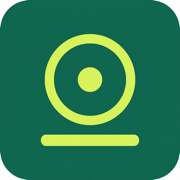
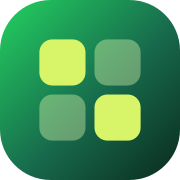
style: 导航图标改为纯文字+柔和选中态，替换logo为工作台风格图标

diff --git a/index.html b/index.html
@@ -6,10 +6,10 @@
 <link rel="apple-touch-icon" href="/static/apple-touch-icon.png" sizes="180x180">
 <meta name="theme-color" content="#176b4d">
 <style>
-:root{--bg:#f5f7f5;--paper:#fff;--soft:#edf1ed;--line:#dfe5df;--text:#17221c;--muted:#78827c;--green:#176b4d;--lime:#d8f56a;--orange:#ef8b52;--blue:#4978ca;--red:#d5574a;--shadow:0 8px 30px rgba(25,40,31,.06)}*{box-sizing:border-box}body{margin:0;background:var(--bg);color:var(--text);font:14px/1.55 -apple-system,BlinkMacSystemFont,"PingFang SC","Microsoft Yahei",sans-serif}.app{min-height:100vh}main{min-width:0}.top{padding:12px 34px;border-bottom:1px solid var(--line);background:rgba(245,247,245,.88);backdrop-filter:blur(10px);position:sticky;top:0;z-index:4;display:grid;grid-template-columns:1fr auto 1fr;align-items:center;gap:14px}.brand-mini{display:flex;gap:9px;align-items:center;cursor:pointer;padding:6px 16px 6px 8px;margin:-6px 2px -6px -8px;border-right:1px solid var(--line);border-radius:10px;flex:0 0 auto;justify-self:start}.brand-mini:hover{background:var(--soft)}.brand-mini.active{background:var(--text)}.brand-mini.active b,.brand-mini.active .mark{color:var(--lime)}.brand-mini b{font-size:15px}.mark{width:29px;height:29px;border-radius:9px;background:var(--green);color:var(--lime);display:grid;place-items:center;font-weight:800;font-size:15px;flex:0 0 auto;overflow:hidden}.mark img{width:100%;height:100%;display:block;object-fit:cover}.pillnav{display:flex;gap:3px;overflow-x:auto;justify-self:center;max-width:100%;scrollbar-width:none}.pillnav::-webkit-scrollbar{display:none}.pill{padding:8px 13px;border-radius:20px;color:#566159;cursor:pointer;display:flex;gap:7px;align-items:center;white-space:nowrap;font-weight:600;flex:0 0 auto}.pill:hover{background:var(--soft)}.pill.active{background:var(--text);color:#fff}.badge{background:#e2e8e2;border-radius:12px;padding:1px 7px;font-size:11px;color:#526056}.pill.active .badge{background:rgba(255,255,255,.22);color:#fff}.top-right{justify-self:end;color:var(--muted);font-size:12px;flex:0 0 auto}.avatar{display:inline-grid;place-items:center;width:30px;height:30px;margin-left:8px;border-radius:50%;background:#d8ead9;color:var(--green);font-weight:700}.page{max-width:1680px;margin:auto;padding:32px 34px 60px}.view{display:none}.view.active{display:block}.hero{display:flex;justify-content:space-between;align-items:end;margin-bottom:25px}.eyebrow{color:var(--green);font-size:12px;font-weight:700;letter-spacing:.05em}.hero h1{font-size:28px;margin:4px 0 4px;letter-spacing:-.04em}.hero p{color:var(--muted);margin:0}.date{color:var(--muted);font-size:13px}.grid{display:grid;grid-template-columns:minmax(430px,1.45fr) minmax(280px,.85fr);gap:18px}.home-layout{display:grid;grid-template-columns:minmax(0,1fr) 340px;gap:20px;align-items:start}.home-grid{display:grid;grid-template-columns:repeat(2,minmax(0,1fr));gap:16px}.todo-panel{background:var(--paper);border:1px solid var(--line);box-shadow:var(--shadow);border-radius:14px;padding:18px;position:sticky;top:88px}.todo-head{display:flex;align-items:center;justify-content:space-between;margin-bottom:12px}.todo-head h2{margin:0;font-size:16px}.todo-compose{margin-bottom:4px}.todo-compose>input{width:100%;padding:9px 10px;border:1px solid var(--line);border-radius:8px;font:inherit;background:var(--soft)}.todo-compose>input:focus{background:white;outline:none;border-color:#b9c7bb}.todo-compose-extra{display:none;margin-top:10px;padding-top:10px;border-top:1px solid var(--line)}.todo-compose.open .todo-compose-extra{display:block}.todo-compose .richbox{min-height:72px;max-height:160px}.todo-compose .field{margin:8px 0 0}.todo-compose .field label{margin-bottom:3px}.todo-compose-actions{display:flex;justify-content:flex-end;gap:8px;margin-top:10px}.todo-list{margin-top:8px;max-height:calc(100vh - 360px);overflow:auto}.richbox{width:100%;min-height:120px;max-height:320px;overflow:auto;border:1px solid var(--line);border-radius:8px;padding:9px;font:inherit;line-height:1.6}.richbox:focus{outline:none;border-color:#9db3a2}.richbox:empty:before{content:attr(data-placeholder);color:#9aa39c}.richbox img{max-width:100%;border-radius:8px;display:block;margin:8px 0}.field-row{display:flex;gap:10px}.field-row .field{flex:1}.task-del{margin-left:6px;color:var(--muted);cursor:pointer;opacity:.5;flex:0 0 auto}.task-del:hover{opacity:1;color:var(--red)}.card{background:var(--paper);border:1px solid var(--line);box-shadow:var(--shadow);border-radius:14px;padding:19px}.card.linkable{cursor:pointer;transition:box-shadow .15s,border-color .15s}.card.linkable:hover{box-shadow:0 10px 32px rgba(25,40,31,.1);border-color:#c7d3c9}.card-title{font-size:14px;font-weight:750;display:flex;align-items:center;gap:8px;margin-bottom:14px}.quick-note{margin:-4px 0 12px}.quick-note>input{width:100%;padding:9px 10px;border:1px solid var(--line);border-radius:8px;font:inherit;background:var(--soft);cursor:text}.quick-note>input:focus{background:white;outline:none;border-color:#b9c7bb}.home-layout,.hero,.top{transition:transform .22s ease,opacity .22s ease,filter .22s ease}body.write-mode{overflow:hidden}body.write-mode .top{opacity:.35;pointer-events:none}body.write-mode .hero{opacity:.25;transform:scale(.97);transform-origin:top left}body.write-mode .home-layout{transform:scale(.9);opacity:.28;filter:blur(.6px);pointer-events:none;transform-origin:top center}.write-stage{position:fixed;inset:18px;z-index:30;display:flex;flex-direction:column;background:var(--paper);border:1px solid var(--line);border-radius:18px;box-shadow:0 18px 60px rgba(25,40,31,.14);opacity:0;transform:translateY(10px) scale(.985);transition:opacity .2s ease,transform .22s ease;visibility:hidden;pointer-events:none}.write-stage.show{opacity:1;transform:none;visibility:visible;pointer-events:auto}.write-bar{display:flex;align-items:center;gap:12px;padding:14px 18px;border-bottom:1px solid var(--line);flex:0 0 auto}.write-bar .hint{color:var(--muted);font-size:12px;margin-right:auto}.write-pad{flex:1;width:100%;overflow:auto;padding:22px 28px 28px;font:18px/1.7 -apple-system,BlinkMacSystemFont,"PingFang SC","Microsoft Yahei",sans-serif;outline:none;background:transparent;color:var(--text)}.write-pad:empty:before{content:attr(data-placeholder);color:#a3ada7;pointer-events:none}.write-pad img{max-width:min(100%,720px);border-radius:10px;display:block;margin:12px 0}.note-thumb{width:44px;height:44px;border-radius:8px;object-fit:cover;flex:0 0 auto}.note-row{cursor:pointer;align-items:center}.note-row:hover{background:rgba(237,241,237,.55);margin:0 -10px;padding-left:10px;padding-right:10px;border-radius:8px}.note-del{margin-left:8px;color:var(--muted);cursor:pointer;opacity:.45;flex:0 0 auto;padding:4px 6px}.note-del:hover{opacity:1;color:var(--red)}.note-detail{white-space:pre-wrap;line-height:1.7;font-size:15px}.note-detail img{max-width:100%;border-radius:10px;display:block;margin:12px 0}.btn.shrink{min-width:76px}.card-title .sub{margin-left:auto;color:var(--muted);font-size:12px;font-weight:400}.focus{background:var(--text);color:white;border-color:var(--text)}.focus .card-title{color:var(--lime)}.task{display:flex;align-items:center;gap:11px;padding:11px 0;border-bottom:1px solid rgba(255,255,255,.14)}.task:last-child{border:0}.tick{height:19px;width:19px;border:1.5px solid #a7b2aa;border-radius:6px;cursor:pointer;flex:0 0 auto;display:grid;place-items:center}.tick.done{background:var(--green);border-color:var(--green);color:white}.focus .tick{border-color:#829086}.task-name{flex:1;min-width:0}.task.done .task-name{text-decoration:line-through;color:#aab3ad}.task-thumb{width:34px;height:34px;border-radius:8px;object-fit:cover;flex:0 0 auto}.task-note{color:var(--muted);font-size:12px;margin-top:2px;font-weight:400;white-space:normal}.focus .task-note{color:#c3ceca}.tag{display:inline-block;border-radius:5px;background:var(--soft);color:#58625d;padding:2px 7px;font-size:11px}.focus .tag{background:#314038;color:#d4ddd6}.priority{height:7px;width:7px;border-radius:50%;background:var(--orange)}.inbox-row,.article,.note-row{padding:12px 0;border-bottom:1px solid var(--line);display:flex;gap:11px;align-items:flex-start}.inbox-row:last-child,.article:last-child,.note-row:last-child{border:0}.inbox-icon{height:28px;width:28px;border-radius:8px;background:#eef3fc;color:var(--blue);display:grid;place-items:center;overflow:hidden;flex:0 0 auto}.inbox-icon img{width:100%;height:100%;object-fit:cover}.row-main{flex:1;min-width:0}.row-title{font-weight:650;white-space:nowrap;overflow:hidden;text-overflow:ellipsis}.row-meta{color:var(--muted);font-size:12px;margin-top:3px}.link{color:var(--green);font-size:12px;cursor:pointer;font-weight:650}.signal{border-left:3px solid var(--orange);padding:2px 0 2px 11px;margin:13px 0}.signal b{display:block}.signal p{margin:3px 0;color:var(--muted);font-size:12px}.btn{border:1px solid var(--line);background:white;border-radius:8px;padding:8px 11px;color:var(--text);cursor:pointer;font:inherit}.btn.primary{background:var(--green);border-color:var(--green);color:white}.btn.ghost{border:0;background:transparent;color:var(--green)}.section-head{display:flex;align-items:center;margin:25px 0 12px}.section-head h2{margin:0;font-size:18px}.section-head .btn{margin-left:auto}.list-card{background:white;border:1px solid var(--line);border-radius:14px;padding:6px 18px}.filters{display:flex;gap:8px;margin-bottom:15px;flex-wrap:wrap}.filter{padding:6px 10px;border-radius:15px;border:1px solid var(--line);background:white;cursor:pointer;color:var(--muted)}.filter.active{background:var(--text);border-color:var(--text);color:white}.article-score{font-weight:800;color:var(--orange);width:31px;font-size:17px}.article a{color:inherit;text-decoration:none}.article a:hover{color:var(--green)}.article .actions{margin-left:auto;white-space:nowrap}.empty{color:var(--muted);text-align:center;padding:35px}.radar-layout{display:grid;grid-template-columns:220px minmax(0,1fr);gap:16px;align-items:start}.radar-nav{background:white;border:1px solid var(--line);border-radius:14px;padding:12px 10px;position:sticky;top:88px;max-height:calc(100vh - 110px);overflow:auto}.radar-nav-head{display:flex;align-items:center;justify-content:space-between;padding:4px 8px 12px;color:var(--muted);font-size:11px;font-weight:700;letter-spacing:.08em;text-transform:uppercase}.radar-nav-item{padding:8px 10px;border-radius:8px;cursor:pointer;color:#566159;display:flex;align-items:center;gap:8px;margin:2px 0}.radar-nav-item:hover,.radar-nav-item.active{background:var(--soft);color:var(--text);font-weight:650}.radar-nav-item .count{margin-left:auto;font-size:11px;color:var(--muted)}.radar-nav-item .count.unread{background:var(--orange);color:#fff;border-radius:10px;padding:1px 7px;font-weight:700;min-width:18px;text-align:center}.article.radar-item{margin:6px -8px;padding:12px 10px;border-radius:10px;border-bottom:0;cursor:pointer;align-items:center}.article.radar-item.is-unread{background:#eef8f1;border:1px solid #d4e8da}.article.radar-item.is-unread .article-score{color:var(--orange)}.article.radar-item.is-unread .row-title{font-weight:750}.article.radar-item.is-read{background:var(--soft);border:1px solid transparent;opacity:.78}.article.radar-item.is-read .article-score{color:#a7b2aa}.article.radar-item.is-read .row-title{font-weight:550;color:#4a554e}.radar-nav-group{padding:12px 8px 4px;color:var(--muted);font-size:11px;font-weight:700}.radar-main{min-width:0}.product-profile{background:white;border:1px solid var(--line);border-radius:14px;padding:18px;margin-bottom:14px}.product-profile h2{margin:0 0 6px;font-size:20px}.product-profile .meta{color:var(--muted);font-size:13px;margin-bottom:8px}.product-profile .actions{display:flex;gap:8px;margin-top:12px}.day-cards{display:flex;flex-direction:column;gap:14px}.day-card{background:white;border:1px solid var(--line);border-radius:14px;padding:4px 18px 10px}.day-card-head{display:flex;align-items:baseline;gap:10px;padding:14px 0 8px;border-bottom:1px solid var(--line);margin-bottom:4px}.day-card-head b{font-size:16px;letter-spacing:-.02em}.day-card-head span{color:var(--muted);font-size:12px}.cat-group{display:flex;align-items:center;gap:8px;padding:14px 0 6px}.cat-group .tag{font-weight:650}.cat-group span{color:var(--muted);font-size:12px}.article.km{display:grid;grid-template-columns:28px minmax(0,1fr) 168px 84px;gap:12px;align-items:center;padding:12px 0}.article.km .article-score{width:28px;text-align:center}.article.km .row-main{min-width:0}.article-metrics{display:grid;grid-template-columns:repeat(3,56px);gap:0;justify-content:end}.metric{text-align:right;line-height:1.15}.metric b{display:block;font-size:14px;font-variant-numeric:tabular-nums;color:var(--text);font-weight:700}.metric small{color:var(--muted);font-size:11px}.article.km .actions{justify-self:end}.btn.fav{min-width:72px;padding:7px 10px}.btn.fav.on{background:#fff7e8;border-color:#f0c36a;color:#c47a12}.month-select{padding:6px 10px;border-radius:15px;border:1px solid var(--line);background:white;color:var(--muted);font:inherit;cursor:pointer}.month-select.active{background:var(--text);border-color:var(--text);color:white}.hero-actions{display:flex;gap:8px;flex-wrap:wrap;justify-content:flex-end}.kb-grid{display:grid;grid-template-columns:repeat(auto-fill,minmax(240px,1fr));gap:14px}.kb-grid>.empty{grid-column:1/-1;background:white;border:1px solid var(--line);border-radius:14px}.kb-card{background:white;border:1px solid var(--line);border-radius:14px;padding:16px;display:flex;flex-direction:column;gap:10px;min-height:168px;cursor:pointer;transition:border-color .15s;overflow:hidden}.kb-card.has-thumb{padding-top:0}.kb-card:hover{border-color:#b9c7bb}.kb-thumb{margin:0 -16px 0;height:140px;background:var(--soft);overflow:hidden}.kb-thumb img{width:100%;height:100%;object-fit:cover;display:block}.kb-card-top{display:flex;align-items:center;justify-content:space-between;gap:8px}.kb-card.has-thumb .kb-card-top{padding-top:12px}.kb-card-icon{width:34px;height:34px;border-radius:10px;background:var(--soft);color:var(--green);display:grid;place-items:center;font-size:15px;overflow:hidden;flex:0 0 auto}.kb-card-icon img{width:100%;height:100%;object-fit:cover}.bm-google{max-width:640px;margin:0 auto 8px;text-align:center}.bm-topbar{display:flex;justify-content:center;align-items:center;gap:8px;margin-bottom:8px;color:var(--text);font-size:15px;font-weight:600}.bm-topbar-sep{color:var(--line)}#bmWeather{display:flex;align-items:center;gap:4px;color:var(--text);font-weight:700}#bmWeather img{width:22px;height:22px;display:block}.bm-header-row{display:flex;align-items:flex-end;justify-content:space-between;gap:20px;margin-bottom:25px}.bm-header-row .hero{margin-bottom:0;flex:0 0 auto}.bm-google-form,#bmGoogleForm{display:flex;align-items:center;gap:10px;background:white;border:1px solid var(--line);border-radius:24px;padding:10px 18px;box-shadow:var(--shadow);transition:border-color .15s,box-shadow .15s}#bmGoogleForm:hover,#bmGoogleForm:focus-within{border-color:#b9c7bb;box-shadow:0 8px 30px rgba(25,40,31,.1)}.bm-google-logo{flex:0 0 auto}#bmGoogleInput{flex:1;border:0;outline:none;font:inherit;font-size:14px;background:transparent}.bm-google-btn{border:0;background:var(--soft);color:var(--text);padding:7px 14px;border-radius:16px;font:inherit;font-size:12px;font-weight:650;cursor:pointer}.bm-google-btn:hover{background:#dfe8e1}
+:root{--bg:#f5f7f5;--paper:#fff;--soft:#edf1ed;--line:#dfe5df;--text:#17221c;--muted:#78827c;--green:#176b4d;--lime:#d8f56a;--orange:#ef8b52;--blue:#4978ca;--red:#d5574a;--shadow:0 8px 30px rgba(25,40,31,.06)}*{box-sizing:border-box}body{margin:0;background:var(--bg);color:var(--text);font:14px/1.55 -apple-system,BlinkMacSystemFont,"PingFang SC","Microsoft Yahei",sans-serif}.app{min-height:100vh}main{min-width:0}.top{padding:12px 34px;border-bottom:1px solid var(--line);background:rgba(245,247,245,.88);backdrop-filter:blur(10px);position:sticky;top:0;z-index:4;display:grid;grid-template-columns:1fr auto 1fr;align-items:center;gap:14px}.brand-mini{display:flex;gap:9px;align-items:center;cursor:pointer;padding:6px 16px 6px 8px;margin:-6px 2px -6px -8px;border-right:1px solid var(--line);border-radius:10px;flex:0 0 auto;justify-self:start}.brand-mini:hover{background:var(--soft)}.brand-mini.active{background:#e4f3ea}.brand-mini.active b{color:var(--green)}.brand-mini b{font-size:15px}.mark{width:29px;height:29px;border-radius:9px;background:var(--green);color:var(--lime);display:grid;place-items:center;font-weight:800;font-size:15px;flex:0 0 auto;overflow:hidden}.mark img{width:100%;height:100%;display:block;object-fit:cover}.pillnav{display:flex;gap:3px;overflow-x:auto;justify-self:center;max-width:100%;scrollbar-width:none}.pillnav::-webkit-scrollbar{display:none}.pill{padding:8px 15px;border-radius:20px;color:#566159;cursor:pointer;display:flex;gap:7px;align-items:center;white-space:nowrap;font-weight:600;flex:0 0 auto;transition:background .15s,color .15s}.pill:hover{background:var(--soft)}.pill.active{background:#e4f3ea;color:var(--green);font-weight:700}.badge{background:#e2e8e2;border-radius:12px;padding:1px 7px;font-size:11px;color:#526056}.pill.active .badge{background:rgba(23,107,77,.14);color:var(--green)}.top-right{justify-self:end;color:var(--muted);font-size:12px;flex:0 0 auto}.avatar{display:inline-grid;place-items:center;width:30px;height:30px;margin-left:8px;border-radius:50%;background:#d8ead9;color:var(--green);font-weight:700}.page{max-width:1680px;margin:auto;padding:32px 34px 60px}.view{display:none}.view.active{display:block}.hero{display:flex;justify-content:space-between;align-items:end;margin-bottom:25px}.eyebrow{color:var(--green);font-size:12px;font-weight:700;letter-spacing:.05em}.hero h1{font-size:28px;margin:4px 0 4px;letter-spacing:-.04em}.hero p{color:var(--muted);margin:0}.date{color:var(--muted);font-size:13px}.grid{display:grid;grid-template-columns:minmax(430px,1.45fr) minmax(280px,.85fr);gap:18px}.home-layout{display:grid;grid-template-columns:minmax(0,1fr) 340px;gap:20px;align-items:start}.home-grid{display:grid;grid-template-columns:repeat(2,minmax(0,1fr));gap:16px}.todo-panel{background:var(--paper);border:1px solid var(--line);box-shadow:var(--shadow);border-radius:14px;padding:18px;position:sticky;top:88px}.todo-head{display:flex;align-items:center;justify-content:space-between;margin-bottom:12px}.todo-head h2{margin:0;font-size:16px}.todo-compose{margin-bottom:4px}.todo-compose>input{width:100%;padding:9px 10px;border:1px solid var(--line);border-radius:8px;font:inherit;background:var(--soft)}.todo-compose>input:focus{background:white;outline:none;border-color:#b9c7bb}.todo-compose-extra{display:none;margin-top:10px;padding-top:10px;border-top:1px solid var(--line)}.todo-compose.open .todo-compose-extra{display:block}.todo-compose .richbox{min-height:72px;max-height:160px}.todo-compose .field{margin:8px 0 0}.todo-compose .field label{margin-bottom:3px}.todo-compose-actions{display:flex;justify-content:flex-end;gap:8px;margin-top:10px}.todo-list{margin-top:8px;max-height:calc(100vh - 360px);overflow:auto}.richbox{width:100%;min-height:120px;max-height:320px;overflow:auto;border:1px solid var(--line);border-radius:8px;padding:9px;font:inherit;line-height:1.6}.richbox:focus{outline:none;border-color:#9db3a2}.richbox:empty:before{content:attr(data-placeholder);color:#9aa39c}.richbox img{max-width:100%;border-radius:8px;display:block;margin:8px 0}.field-row{display:flex;gap:10px}.field-row .field{flex:1}.task-del{margin-left:6px;color:var(--muted);cursor:pointer;opacity:.5;flex:0 0 auto}.task-del:hover{opacity:1;color:var(--red)}.card{background:var(--paper);border:1px solid var(--line);box-shadow:var(--shadow);border-radius:14px;padding:19px}.card.linkable{cursor:pointer;transition:box-shadow .15s,border-color .15s}.card.linkable:hover{box-shadow:0 10px 32px rgba(25,40,31,.1);border-color:#c7d3c9}.card-title{font-size:14px;font-weight:750;display:flex;align-items:center;gap:8px;margin-bottom:14px}.quick-note{margin:-4px 0 12px}.quick-note>input{width:100%;padding:9px 10px;border:1px solid var(--line);border-radius:8px;font:inherit;background:var(--soft);cursor:text}.quick-note>input:focus{background:white;outline:none;border-color:#b9c7bb}.home-layout,.hero,.top{transition:transform .22s ease,opacity .22s ease,filter .22s ease}body.write-mode{overflow:hidden}body.write-mode .top{opacity:.35;pointer-events:none}body.write-mode .hero{opacity:.25;transform:scale(.97);transform-origin:top left}body.write-mode .home-layout{transform:scale(.9);opacity:.28;filter:blur(.6px);pointer-events:none;transform-origin:top center}.write-stage{position:fixed;inset:18px;z-index:30;display:flex;flex-direction:column;background:var(--paper);border:1px solid var(--line);border-radius:18px;box-shadow:0 18px 60px rgba(25,40,31,.14);opacity:0;transform:translateY(10px) scale(.985);transition:opacity .2s ease,transform .22s ease;visibility:hidden;pointer-events:none}.write-stage.show{opacity:1;transform:none;visibility:visible;pointer-events:auto}.write-bar{display:flex;align-items:center;gap:12px;padding:14px 18px;border-bottom:1px solid var(--line);flex:0 0 auto}.write-bar .hint{color:var(--muted);font-size:12px;margin-right:auto}.write-pad{flex:1;width:100%;overflow:auto;padding:22px 28px 28px;font:18px/1.7 -apple-system,BlinkMacSystemFont,"PingFang SC","Microsoft Yahei",sans-serif;outline:none;background:transparent;color:var(--text)}.write-pad:empty:before{content:attr(data-placeholder);color:#a3ada7;pointer-events:none}.write-pad img{max-width:min(100%,720px);border-radius:10px;display:block;margin:12px 0}.note-thumb{width:44px;height:44px;border-radius:8px;object-fit:cover;flex:0 0 auto}.note-row{cursor:pointer;align-items:center}.note-row:hover{background:rgba(237,241,237,.55);margin:0 -10px;padding-left:10px;padding-right:10px;border-radius:8px}.note-del{margin-left:8px;color:var(--muted);cursor:pointer;opacity:.45;flex:0 0 auto;padding:4px 6px}.note-del:hover{opacity:1;color:var(--red)}.note-detail{white-space:pre-wrap;line-height:1.7;font-size:15px}.note-detail img{max-width:100%;border-radius:10px;display:block;margin:12px 0}.btn.shrink{min-width:76px}.card-title .sub{margin-left:auto;color:var(--muted);font-size:12px;font-weight:400}.focus{background:var(--text);color:white;border-color:var(--text)}.focus .card-title{color:var(--lime)}.task{display:flex;align-items:center;gap:11px;padding:11px 0;border-bottom:1px solid rgba(255,255,255,.14)}.task:last-child{border:0}.tick{height:19px;width:19px;border:1.5px solid #a7b2aa;border-radius:6px;cursor:pointer;flex:0 0 auto;display:grid;place-items:center}.tick.done{background:var(--green);border-color:var(--green);color:white}.focus .tick{border-color:#829086}.task-name{flex:1;min-width:0}.task.done .task-name{text-decoration:line-through;color:#aab3ad}.task-thumb{width:34px;height:34px;border-radius:8px;object-fit:cover;flex:0 0 auto}.task-note{color:var(--muted);font-size:12px;margin-top:2px;font-weight:400;white-space:normal}.focus .task-note{color:#c3ceca}.tag{display:inline-block;border-radius:5px;background:var(--soft);color:#58625d;padding:2px 7px;font-size:11px}.focus .tag{background:#314038;color:#d4ddd6}.priority{height:7px;width:7px;border-radius:50%;background:var(--orange)}.inbox-row,.article,.note-row{padding:12px 0;border-bottom:1px solid var(--line);display:flex;gap:11px;align-items:flex-start}.inbox-row:last-child,.article:last-child,.note-row:last-child{border:0}.inbox-icon{height:28px;width:28px;border-radius:8px;background:#eef3fc;color:var(--blue);display:grid;place-items:center;overflow:hidden;flex:0 0 auto}.inbox-icon img{width:100%;height:100%;object-fit:cover}.row-main{flex:1;min-width:0}.row-title{font-weight:650;white-space:nowrap;overflow:hidden;text-overflow:ellipsis}.row-meta{color:var(--muted);font-size:12px;margin-top:3px}.link{color:var(--green);font-size:12px;cursor:pointer;font-weight:650}.signal{border-left:3px solid var(--orange);padding:2px 0 2px 11px;margin:13px 0}.signal b{display:block}.signal p{margin:3px 0;color:var(--muted);font-size:12px}.btn{border:1px solid var(--line);background:white;border-radius:8px;padding:8px 11px;color:var(--text);cursor:pointer;font:inherit}.btn.primary{background:var(--green);border-color:var(--green);color:white}.btn.ghost{border:0;background:transparent;color:var(--green)}.section-head{display:flex;align-items:center;margin:25px 0 12px}.section-head h2{margin:0;font-size:18px}.section-head .btn{margin-left:auto}.list-card{background:white;border:1px solid var(--line);border-radius:14px;padding:6px 18px}.filters{display:flex;gap:8px;margin-bottom:15px;flex-wrap:wrap}.filter{padding:6px 10px;border-radius:15px;border:1px solid var(--line);background:white;cursor:pointer;color:var(--muted)}.filter.active{background:var(--text);border-color:var(--text);color:white}.article-score{font-weight:800;color:var(--orange);width:31px;font-size:17px}.article a{color:inherit;text-decoration:none}.article a:hover{color:var(--green)}.article .actions{margin-left:auto;white-space:nowrap}.empty{color:var(--muted);text-align:center;padding:35px}.radar-layout{display:grid;grid-template-columns:220px minmax(0,1fr);gap:16px;align-items:start}.radar-nav{background:white;border:1px solid var(--line);border-radius:14px;padding:12px 10px;position:sticky;top:88px;max-height:calc(100vh - 110px);overflow:auto}.radar-nav-head{display:flex;align-items:center;justify-content:space-between;padding:4px 8px 12px;color:var(--muted);font-size:11px;font-weight:700;letter-spacing:.08em;text-transform:uppercase}.radar-nav-item{padding:8px 10px;border-radius:8px;cursor:pointer;color:#566159;display:flex;align-items:center;gap:8px;margin:2px 0}.radar-nav-item:hover,.radar-nav-item.active{background:var(--soft);color:var(--text);font-weight:650}.radar-nav-item .count{margin-left:auto;font-size:11px;color:var(--muted)}.radar-nav-item .count.unread{background:var(--orange);color:#fff;border-radius:10px;padding:1px 7px;font-weight:700;min-width:18px;text-align:center}.article.radar-item{margin:6px -8px;padding:12px 10px;border-radius:10px;border-bottom:0;cursor:pointer;align-items:center}.article.radar-item.is-unread{background:#eef8f1;border:1px solid #d4e8da}.article.radar-item.is-unread .article-score{color:var(--orange)}.article.radar-item.is-unread .row-title{font-weight:750}.article.radar-item.is-read{background:var(--soft);border:1px solid transparent;opacity:.78}.article.radar-item.is-read .article-score{color:#a7b2aa}.article.radar-item.is-read .row-title{font-weight:550;color:#4a554e}.radar-nav-group{padding:12px 8px 4px;color:var(--muted);font-size:11px;font-weight:700}.radar-main{min-width:0}.product-profile{background:white;border:1px solid var(--line);border-radius:14px;padding:18px;margin-bottom:14px}.product-profile h2{margin:0 0 6px;font-size:20px}.product-profile .meta{color:var(--muted);font-size:13px;margin-bottom:8px}.product-profile .actions{display:flex;gap:8px;margin-top:12px}.day-cards{display:flex;flex-direction:column;gap:14px}.day-card{background:white;border:1px solid var(--line);border-radius:14px;padding:4px 18px 10px}.day-card-head{display:flex;align-items:baseline;gap:10px;padding:14px 0 8px;border-bottom:1px solid var(--line);margin-bottom:4px}.day-card-head b{font-size:16px;letter-spacing:-.02em}.day-card-head span{color:var(--muted);font-size:12px}.cat-group{display:flex;align-items:center;gap:8px;padding:14px 0 6px}.cat-group .tag{font-weight:650}.cat-group span{color:var(--muted);font-size:12px}.article.km{display:grid;grid-template-columns:28px minmax(0,1fr) 168px 84px;gap:12px;align-items:center;padding:12px 0}.article.km .article-score{width:28px;text-align:center}.article.km .row-main{min-width:0}.article-metrics{display:grid;grid-template-columns:repeat(3,56px);gap:0;justify-content:end}.metric{text-align:right;line-height:1.15}.metric b{display:block;font-size:14px;font-variant-numeric:tabular-nums;color:var(--text);font-weight:700}.metric small{color:var(--muted);font-size:11px}.article.km .actions{justify-self:end}.btn.fav{min-width:72px;padding:7px 10px}.btn.fav.on{background:#fff7e8;border-color:#f0c36a;color:#c47a12}.month-select{padding:6px 10px;border-radius:15px;border:1px solid var(--line);background:white;color:var(--muted);font:inherit;cursor:pointer}.month-select.active{background:var(--text);border-color:var(--text);color:white}.hero-actions{display:flex;gap:8px;flex-wrap:wrap;justify-content:flex-end}.kb-grid{display:grid;grid-template-columns:repeat(auto-fill,minmax(240px,1fr));gap:14px}.kb-grid>.empty{grid-column:1/-1;background:white;border:1px solid var(--line);border-radius:14px}.kb-card{background:white;border:1px solid var(--line);border-radius:14px;padding:16px;display:flex;flex-direction:column;gap:10px;min-height:168px;cursor:pointer;transition:border-color .15s;overflow:hidden}.kb-card.has-thumb{padding-top:0}.kb-card:hover{border-color:#b9c7bb}.kb-thumb{margin:0 -16px 0;height:140px;background:var(--soft);overflow:hidden}.kb-thumb img{width:100%;height:100%;object-fit:cover;display:block}.kb-card-top{display:flex;align-items:center;justify-content:space-between;gap:8px}.kb-card.has-thumb .kb-card-top{padding-top:12px}.kb-card-icon{width:34px;height:34px;border-radius:10px;background:var(--soft);color:var(--green);display:grid;place-items:center;font-size:15px;overflow:hidden;flex:0 0 auto}.kb-card-icon img{width:100%;height:100%;object-fit:cover}.bm-google{max-width:640px;margin:0 auto 8px;text-align:center}.bm-topbar{display:flex;justify-content:center;align-items:center;gap:8px;margin-bottom:8px;color:var(--text);font-size:15px;font-weight:600}.bm-topbar-sep{color:var(--line)}#bmWeather{display:flex;align-items:center;gap:4px;color:var(--text);font-weight:700}#bmWeather img{width:22px;height:22px;display:block}.bm-header-row{display:flex;align-items:flex-end;justify-content:space-between;gap:20px;margin-bottom:25px}.bm-header-row .hero{margin-bottom:0;flex:0 0 auto}.bm-google-form,#bmGoogleForm{display:flex;align-items:center;gap:10px;background:white;border:1px solid var(--line);border-radius:24px;padding:10px 18px;box-shadow:var(--shadow);transition:border-color .15s,box-shadow .15s}#bmGoogleForm:hover,#bmGoogleForm:focus-within{border-color:#b9c7bb;box-shadow:0 8px 30px rgba(25,40,31,.1)}.bm-google-logo{flex:0 0 auto}#bmGoogleInput{flex:1;border:0;outline:none;font:inherit;font-size:14px;background:transparent}.bm-google-btn{border:0;background:var(--soft);color:var(--text);padding:7px 14px;border-radius:16px;font:inherit;font-size:12px;font-weight:650;cursor:pointer}.bm-google-btn:hover{background:#dfe8e1}
 .bm-quick{max-width:340px;margin:0;flex:0 0 auto}.bm-quick-row{display:flex;gap:8px;align-items:stretch}.bm-quick-row input,.bm-quick-row select{height:40px;padding:0 12px;border:1px solid var(--line);border-radius:9px;font:inherit;font-size:13px;background:white;box-sizing:border-box}.bm-quick-row input{flex:1;min-width:0}.bm-quick-row select{flex:0 0 auto;width:96px;color:var(--text);cursor:pointer}.bm-quick-row input:focus{outline:none;border-color:#b9c7bb}.bm-kind-toggle{display:flex;gap:2px;padding:3px;background:var(--soft);border-radius:9px;flex:0 0 auto;height:40px;box-sizing:border-box}.bm-kind-toggle button{border:0;background:transparent;padding:0 12px;height:100%;border-radius:7px;font:inherit;font-size:12px;font-weight:650;color:var(--muted);cursor:pointer}.bm-kind-toggle button.active{background:white;color:var(--text);box-shadow:0 1px 3px rgba(25,40,31,.08)}.bm-status{font-size:12px;color:var(--muted);margin-top:6px;min-height:16px;text-align:center}.bm-section{margin-bottom:28px}.bm-section-head{display:flex;align-items:center;gap:10px;margin-bottom:16px}.bm-section-head h2{margin:0;font-size:15px;letter-spacing:-.02em;flex:0 0 auto}.bm-section-head span{color:var(--muted);font-size:12px;flex:1;min-width:0}.bm-section-head .btn.ghost{flex:0 0 auto}.bm-grid{display:flex;flex-wrap:wrap;gap:22px 18px}.bm-grid>.empty,.bm-memo-grid>.empty{width:100%}.bm-tile{position:relative;width:86px;display:flex;flex-direction:column;align-items:center;gap:8px;text-decoration:none;color:inherit}.bm-tile-icon{width:54px;height:54px;border-radius:16px;background:white;border:1px solid var(--line);display:grid;place-items:center;overflow:hidden;font-size:22px;transition:box-shadow .15s,border-color .15s}.bm-tile-icon img{width:60%;height:60%;object-fit:contain}.bm-tile:hover .bm-tile-icon{border-color:#b9c7bb;box-shadow:var(--shadow)}.bm-tile-title{font-size:12px;text-align:center;color:var(--text);max-width:86px;white-space:nowrap;overflow:hidden;text-overflow:ellipsis;line-height:1.3}.bm-act{position:absolute;width:20px;height:20px;border-radius:50%;border:2px solid var(--bg);align-items:center;justify-content:center;font-size:12px;line-height:1;cursor:pointer;display:none;padding:0}.bm-act.del{background:var(--red);color:#fff}.bm-act.move{background:#e8eee9;color:var(--text)}.bm-tile .bm-act.del{top:-6px;right:6px}.bm-tile .bm-act.move{top:-6px;left:6px}.bm-tile:hover .bm-act{display:flex}.bm-tile.bm-dragging,.bm-card.bm-dragging{opacity:.4}.bm-tile.bm-drag-over{outline:2px dashed var(--green);outline-offset:3px;border-radius:16px}.bm-card.bm-drag-over{outline:2px dashed var(--green);outline-offset:-2px}.bm-group-block{margin-bottom:22px}.bm-group-block:last-child{margin-bottom:0}.bm-group-head{display:flex;align-items:center;gap:8px;margin-bottom:12px;padding-bottom:8px;border-bottom:1px solid var(--line)}.bm-group-head b{color:var(--text);font-size:13px;font-weight:700}.bm-group-head span{color:var(--muted);font-size:11px;background:var(--soft);border-radius:10px;padding:1px 8px}.bm-group-row{display:flex;gap:8px;align-items:center;margin-bottom:8px}.bm-group-name-input{flex:1;padding:8px 9px;border:1px solid var(--line);border-radius:7px;font:inherit}.bm-tile .bm-act.group{top:-6px;left:28px;background:#eef3fc;color:var(--blue)}.bm-tile:hover .bm-act.group{display:flex}.bm-memo-grid{display:grid;grid-template-columns:repeat(auto-fill,minmax(260px,1fr));gap:12px}.bm-card{position:relative;display:flex;gap:12px;align-items:flex-start;padding:14px 56px 14px 14px;background:white;border:1px solid var(--line);border-radius:12px;text-decoration:none;color:inherit;transition:border-color .15s,box-shadow .15s;min-height:76px}.bm-card:hover{border-color:#b9c7bb;box-shadow:var(--shadow)}.bm-card-icon{width:36px;height:36px;border-radius:10px;background:var(--soft);display:grid;place-items:center;overflow:hidden;flex:0 0 auto;font-size:16px}.bm-card-icon img{width:60%;height:60%;object-fit:contain}.bm-card-main{min-width:0;flex:1}.bm-card-title{font-weight:700;font-size:14px;line-height:1.35;display:-webkit-box;-webkit-line-clamp:2;-webkit-box-orient:vertical;overflow:hidden}.bm-card-title-link{font-weight:600;font-size:12.5px;color:var(--muted);word-break:break-all;-webkit-line-clamp:1}.bm-card-summary{color:#4a554e;font-size:12.5px;line-height:1.4;margin-top:3px;display:-webkit-box;-webkit-line-clamp:1;-webkit-box-orient:vertical;overflow:hidden}.bm-card-meta{color:var(--muted);font-size:12px;margin-top:5px;white-space:nowrap;overflow:hidden;text-overflow:ellipsis}.bm-card .bm-act.del{top:8px;right:8px}.bm-card .bm-act.move{top:8px;right:32px}.bm-card:hover .bm-act{display:flex}.media-toolbar{display:flex;flex-wrap:wrap;align-items:center;gap:8px;margin:0 0 16px}.media-toolbar .seg{display:flex;gap:2px;padding:3px;background:var(--soft);border-radius:9px;flex:0 0 auto}.media-toolbar .seg button{border:0;background:transparent;padding:6px 11px;border-radius:7px;font:inherit;font-size:12px;font-weight:650;color:var(--muted);cursor:pointer}.media-toolbar .seg button.active{background:white;color:var(--text);box-shadow:0 1px 3px rgba(25,40,31,.08)}.media-toolbar .chips{display:flex;flex-wrap:wrap;gap:4px;align-items:center}.media-toolbar .chips button{border:1px solid var(--line);background:white;padding:5px 9px;border-radius:14px;font:inherit;font-size:12px;color:var(--muted);cursor:pointer}.media-toolbar .chips button.active{background:var(--text);border-color:var(--text);color:#fff}.media-toolbar .spacer{flex:1;min-width:8px}.media-section-head{display:flex;align-items:center;gap:10px;margin:18px 0 10px}.media-section-head h2{margin:0;font-size:15px}.media-section-head .hint,.media-section-head .meta{color:var(--muted);font-size:12px;margin-left:auto}.media-section-head .filters{margin:0;gap:4px}.media-section-head .filter{padding:4px 9px;font-size:12px}.media-grid{display:grid;grid-template-columns:repeat(auto-fill,minmax(136px,1fr));gap:14px}.media-grid>.empty{grid-column:1/-1}.media-card{background:white;border:1px solid var(--line);border-radius:10px;overflow:hidden;display:flex;flex-direction:column;min-height:100%}.media-cover-wrap{position:relative}.media-cover{position:relative;aspect-ratio:3/4;background:var(--soft);overflow:hidden;display:block}.media-cover img{width:100%;height:100%;object-fit:cover;display:block}.media-cover .ph{width:100%;height:100%;display:grid;place-items:center;color:var(--muted);font-size:22px}.media-rating{position:absolute;left:6px;top:6px;background:rgba(23,107,77,.92);color:#fff;font-size:10px;font-weight:700;padding:1px 5px;border-radius:5px}.media-status{position:absolute;right:6px;top:6px;border:0;background:rgba(255,255,255,.94);color:var(--text);font:inherit;font-size:10px;font-weight:700;padding:2px 7px;border-radius:999px;cursor:pointer;box-shadow:0 1px 4px rgba(0,0,0,.12)}.media-status.done{background:rgba(23,107,77,.92);color:#fff}.media-body{padding:8px;display:flex;flex-direction:column;gap:4px;flex:1}.media-title{font-weight:700;font-size:12px;line-height:1.3;display:-webkit-box;-webkit-line-clamp:2;-webkit-box-orient:vertical;overflow:hidden}.media-title a{color:inherit;text-decoration:none}.media-title a:hover{color:var(--green)}.media-sub{color:var(--muted);font-size:10px;line-height:1.3;display:-webkit-box;-webkit-line-clamp:1;-webkit-box-orient:vertical;overflow:hidden}.media-note{display:flex;align-items:center;gap:4px;color:var(--green);font-size:10px;font-weight:650;margin-top:-2px}.media-note .dot{width:5px;height:5px;border-radius:50%;background:var(--green);flex:0 0 auto}.media-icon-row{display:flex;gap:6px;margin-top:auto;padding-top:4px}.media-icon-btn{width:27px;height:27px;border-radius:8px;border:1px solid var(--line);background:white;display:grid;place-items:center;font-size:13px;cursor:pointer;color:var(--muted);flex:0 0 auto;line-height:1}.media-icon-btn:hover{border-color:#b9c7bb;color:var(--text)}.media-icon-btn.on{background:#eef8f1;border-color:#b9d8c4;color:var(--green)}.media-icon-btn.grow{flex:1 1 auto;font-size:11px;font-weight:650}.media-icon-btn.danger:hover{border-color:#e3b3ac;color:var(--red);background:#fdf1ef}.media-sub{color:var(--muted);font-size:11px;line-height:1.35;display:-webkit-box;-webkit-line-clamp:2;-webkit-box-orient:vertical;overflow:hidden}.media-actions{display:flex;flex-wrap:wrap;gap:6px;margin-top:auto;padding-top:4px}.media-actions .btn{padding:5px 8px;font-size:12px;flex:1;min-width:0}.media-actions .btn.on{background:#eef8f1;border-color:#b9d8c4;color:var(--green)}.media-manual{display:flex;gap:8px;flex-wrap:wrap;margin-top:8px}.media-manual input{flex:1;min-width:140px;padding:8px 10px;border:1px solid var(--line);border-radius:8px;font:inherit}.media-manual input:focus{outline:none;border-color:#b9c7bb}.kb-card-kind{font-size:11px;color:var(--muted)}.kb-card-title{font-weight:700;font-size:15px;line-height:1.35;display:-webkit-box;-webkit-line-clamp:2;-webkit-box-orient:vertical;overflow:hidden}.kb-card-excerpt{color:var(--muted);font-size:12px;line-height:1.5;display:-webkit-box;-webkit-line-clamp:3;-webkit-box-orient:vertical;overflow:hidden;flex:1}.kb-card-foot{display:flex;align-items:center;justify-content:space-between;gap:8px;margin-top:auto;padding-top:4px}.kb-card-foot .meta{color:var(--muted);font-size:11px;min-width:0;overflow:hidden;text-overflow:ellipsis;white-space:nowrap}.kb-doc{white-space:pre-wrap;line-height:1.7;color:var(--text);margin:0;font-size:14px}.kb-meta{color:var(--muted);font-size:12px;margin:4px 0 14px}.modal-bg{display:none;position:fixed;z-index:20;inset:0;background:rgba(17,30,22,.35);align-items:center;justify-content:center}.modal-bg.show{display:flex}.modal{width:min(520px,92vw);background:white;padding:22px;border-radius:15px;box-shadow:0 20px 70px rgba(0,0,0,.2)}.modal.wide{width:min(720px,94vw)}.modal h3{margin:0 0 16px}.field{margin:11px 0}.field label{display:block;color:var(--muted);font-size:12px;margin-bottom:4px}.field input,.field textarea,.field select{width:100%;padding:9px;border:1px solid var(--line);border-radius:7px;font:inherit}.modal-actions{margin-top:17px;display:flex;justify-content:end;gap:8px}@media(max-width:900px){.top{padding:10px 16px;gap:8px}.brand-mini b{display:none}.page{padding:22px 16px}.grid{grid-template-columns:1fr}.home-layout{grid-template-columns:1fr}.home-grid{grid-template-columns:1fr}.todo-panel{position:static}.radar-layout{grid-template-columns:1fr}.radar-nav{position:static;max-height:none;display:flex;flex-wrap:wrap;gap:4px}.radar-nav-head,.radar-nav-group{display:none}.radar-nav-item{white-space:nowrap}.article.km{grid-template-columns:28px minmax(0,1fr) 84px;grid-template-areas:"icon main act" "icon metrics act"}.article.km .article-score{grid-area:icon}.article.km .row-main{grid-area:main}.article.km .article-metrics{grid-area:metrics;justify-content:start}.article.km .actions{grid-area:act}.top-right{display:none}}
 
-</style></head><body><div class="app"><header class="top"><div class="brand-mini active" title="书签" onclick="showView('bookmarks',null)"><div class="mark"><img src="/static/favicon.svg" alt=""></div><b>工作台</b></div><nav class="pillnav"><div class="pill" data-view="home" onclick="showView('home',this)">⌂ 首页</div><div class="pill" data-view="notes" onclick="showView('notes',this)">✦ 笔记</div><div class="pill" data-view="knowledge" onclick="showView('knowledge',this)">⬡ 知识库</div><div class="pill" data-view="radar" onclick="showView('radar',this)">◉ 鹰眼</div><div class="pill" data-view="articles" onclick="showView('articles',this)">◫ KM热榜</div><div class="pill" data-view="media" onclick="showView('media',this)">◈ 书影音</div></nav><div class="top-right"><span id="topDate">周三，8 月 5 日</span> <span class="avatar">C</span></div></header><main><div class="page">
+</style></head><body><div class="app"><header class="top"><div class="brand-mini active" title="书签" onclick="showView('bookmarks',null)"><div class="mark"><img src="/static/favicon.svg" alt=""></div><b>工作台</b></div><nav class="pillnav"><div class="pill" data-view="home" onclick="showView('home',this)">首页</div><div class="pill" data-view="notes" onclick="showView('notes',this)">笔记</div><div class="pill" data-view="knowledge" onclick="showView('knowledge',this)">知识库</div><div class="pill" data-view="radar" onclick="showView('radar',this)">鹰眼</div><div class="pill" data-view="articles" onclick="showView('articles',this)">KM热榜</div><div class="pill" data-view="media" onclick="showView('media',this)">书影音</div></nav><div class="top-right"><span id="topDate">周三，8 月 5 日</span> <span class="avatar">C</span></div></header><main><div class="page">
 <section id="home" class="view"><div class="hero"><div><div class="eyebrow">TODAY'S WORKBENCH</div><h1 id="heroGreeting">早上好，先想清楚，再做今天最重要的事。</h1><p>信息、判断与行动，都从这一页开始。</p></div></div><div class="home-layout"><div class="home-grid"><div class="card linkable" onclick="homeCardNav(event,'notes')"><div class="card-title">最近笔记 <span class="sub link" onclick="showView('notes',document.querySelector('[data-view=notes]'))">笔记 →</span></div><div class="quick-note"><input id="noteQuick" readonly placeholder="点这里开始写，可粘贴图片…⌘K" onclick="expandWrite()" onfocus="expandWrite()"></div><div id="recentNotes"></div></div><div class="card linkable" onclick="homeCardNav(event,'knowledge')"><div class="card-title">最近沉淀 <span class="sub link" onclick="showView('knowledge',document.querySelector('[data-view=knowledge]'))">知识库 →</span></div><div id="recentKnowledge"></div></div><div class="card linkable" onclick="homeCardNav(event,'radar')"><div class="card-title">鹰眼速览 <span class="sub link" onclick="showView('radar',document.querySelector('[data-view=radar]'))">全部 →</span></div><div id="radarBrief"></div></div><div class="card linkable" onclick="homeCardNav(event,'articles')"><div class="card-title">KM热榜 <span class="sub link" onclick="showView('articles',document.querySelector('[data-view=articles]'))">全部 →</span></div><div id="homeArticles"></div></div></div><div class="todo-panel" id="todoPanel"><div class="todo-head"><h2>待办</h2></div><div class="todo-compose" id="todoCompose"><input id="todoQuick" placeholder="写下一条待办…" autocomplete="off" onfocus="expandTodoCompose()" onkeydown="todoQuickKey(event)"><div class="todo-compose-extra"><div class="field"><label>补充说明（可选，可粘贴图片）</label><div id="todoContent" class="richbox" contenteditable="true" data-placeholder="补充细节，或直接粘贴图片…" onpaste="handleTodoPaste(event)"></div></div><div class="field-row"><div class="field"><label>优先级</label><select id="todoPriority"><option>高</option><option selected>中</option><option>低</option></select></div><div class="field"><label>日期</label><input type="date" id="todoDate"></div></div><div class="todo-compose-actions"><button type="button" class="btn" onclick="collapseTodoCompose(true)">取消</button><button type="button" class="btn primary" onclick="submitTodoCompose()">添加</button></div></div></div><div class="todo-list" id="todoList"></div></div></div></section>
 <section id="knowledge" class="view"><div class="hero"><div><div class="eyebrow">KNOWLEDGE</div><h1>知识库 · 文件与文档。</h1><p>上传材料、写下可复用的文档，都沉淀在这里。</p></div><div class="hero-actions"><button class="btn" onclick="triggerKnowledgeUpload()">↑ 上传文件</button><button class="btn primary" onclick="openKnowledgeDoc()">＋ 写文档</button></div></div><div class="filters" id="knowledgeFilters"></div><div class="kb-grid" id="knowledgeList"></div><input type="file" id="knowledgeFileInput" multiple hidden onchange="uploadKnowledgeFiles(this)"></section>
 <section id="bookmarks" class="view active"><div class="bm-topbar" id="bmTopbar">
